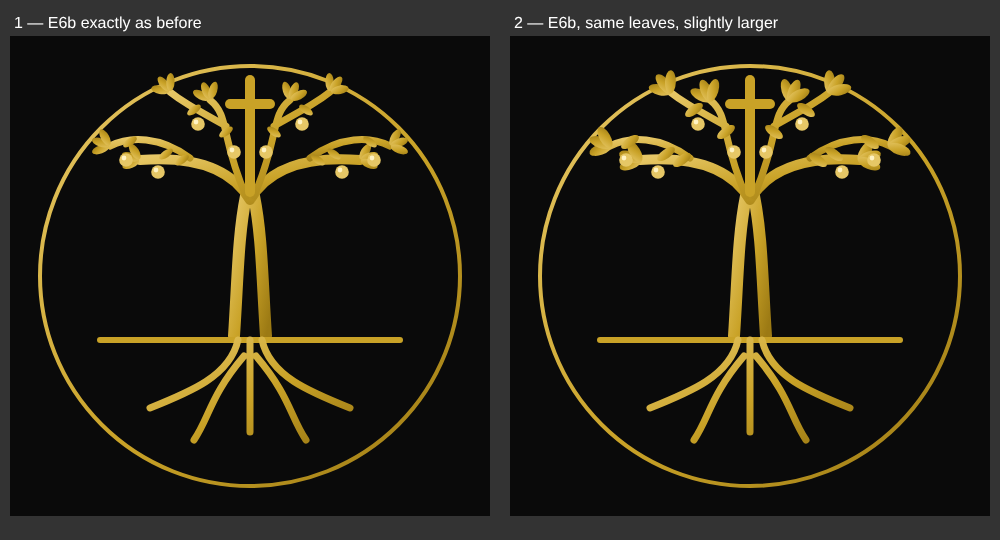
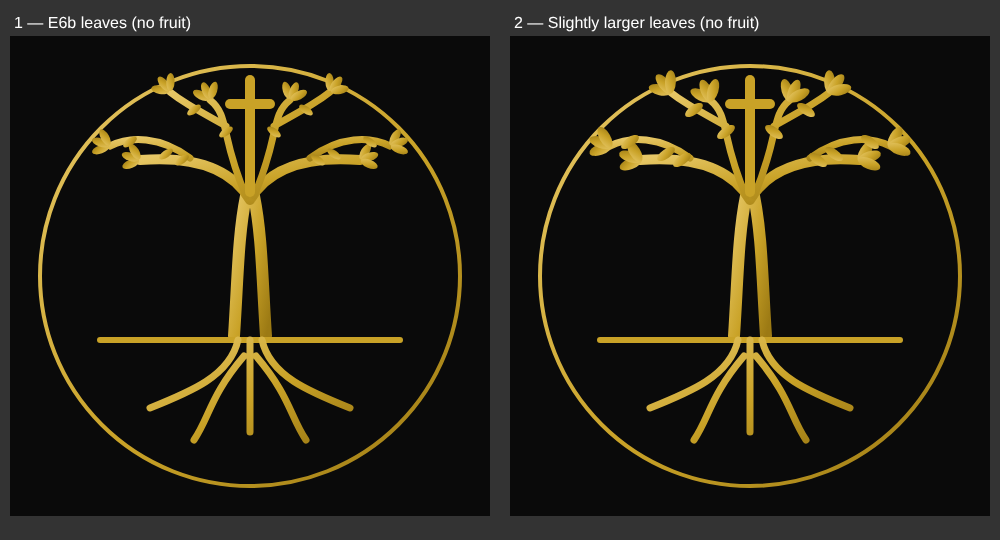
E6b comparison without fruit
Claude-Session: https://claude.ai/code/session_01H8w7e8kGY4LqrcsrKx8nCd

diff --git a/brand/final2/cmp.js b/brand/final2/cmp.js
@@ -1,6 +1,6 @@
 const { chromium } = require('playwright'); const fs=require('fs');
 (async()=>{ const b=await chromium.launch(); const p=await b.newPage({viewport:{width:1000,height:540}});
  await p.setContent(`<html><body style="margin:0;background:#333;font-family:Arial;color:#fff;display:flex;gap:20px;padding:10px;align-items:flex-start">
- <div><div style="padding:4px">1 — E6b exactly as before</div>${fs.readFileSync('compare-a-original.svg','utf8')}</div>
- <div><div style="padding:4px">2 — E6b, same leaves, slightly larger</div>${fs.readFileSync('compare-b-larger-leaves.svg','utf8')}</div></body></html>`);
+ <div><div style="padding:4px">1 — E6b leaves (no fruit)</div>${fs.readFileSync('compare-a-original.svg','utf8')}</div>
+ <div><div style="padding:4px">2 — Slightly larger leaves (no fruit)</div>${fs.readFileSync('compare-b-larger-leaves.svg','utf8')}</div></body></html>`);
  await p.screenshot({path:'compare.png'}); await b.close(); })();

diff --git a/brand/tree-cross/final_e6b.py b/brand/tree-cross/final_e6b.py
@@ -7,7 +7,7 @@ def build(scale):
     def leaf2(x,y,ang,l=9,w=4.2,fill="url(#g)"): return base_leaf(x,y,ang,l*scale,w*scale,fill)
     import builtins
     g=globals(); old=g['leaf']; g['leaf']=leaf2
-    icon=wrap(E6_TREE+leaves_at(E6_TIPS)+midleaves(E6_MIDS)+fruits_at(E6_FRUIT))
+    icon=wrap(E6_TREE+leaves_at(E6_TIPS)+midleaves(E6_MIDS))
     g['leaf']=old
     return icon
 os.makedirs("../final2",exist_ok=True)
